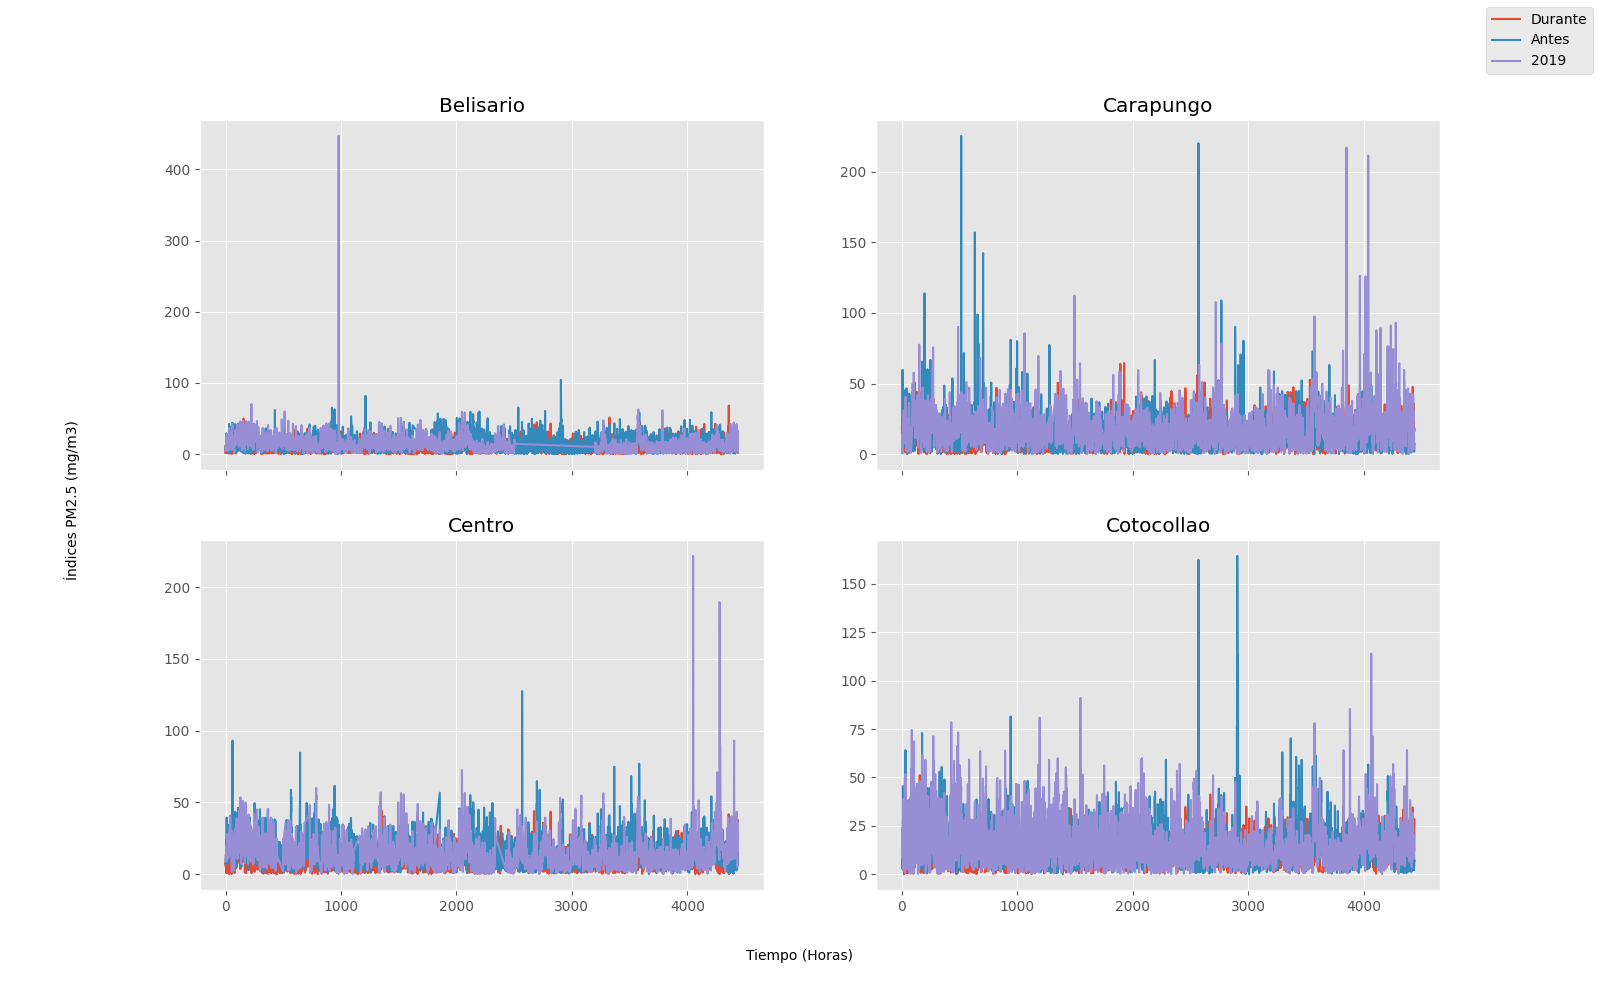
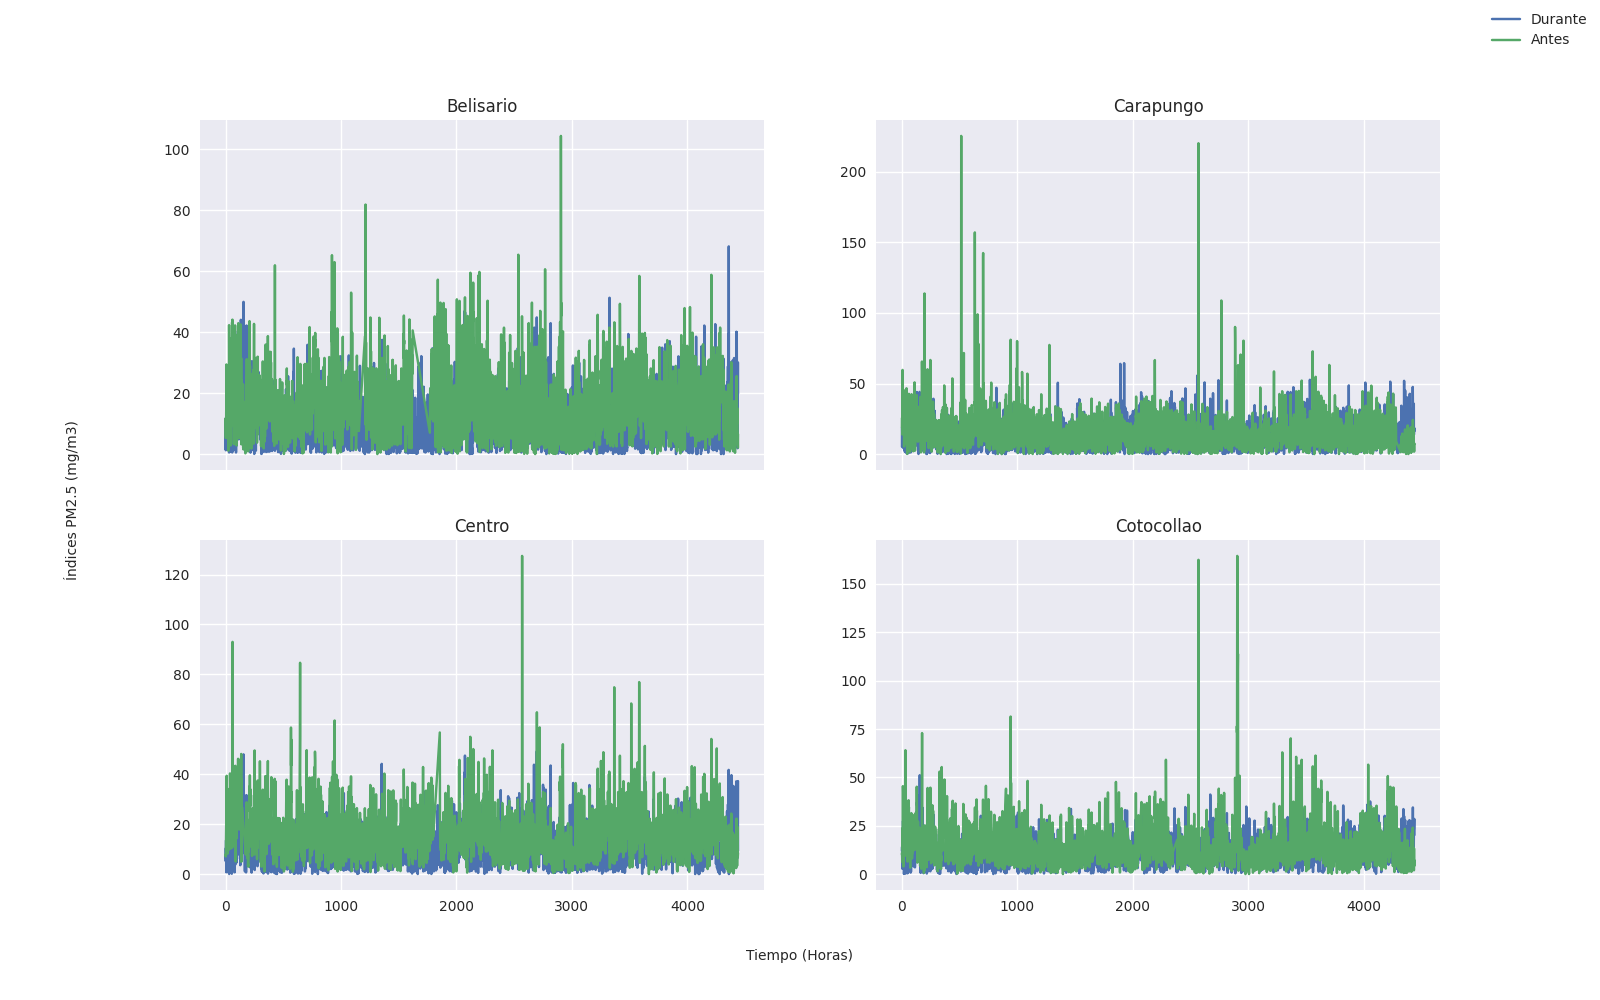
commit_pm2.5

diff --git a/PM2.5/pm25_analisis.py b/PM2.5/pm25_analisis.py
@@ -11,7 +11,7 @@ import scipy.stats as stats
 from sklearn.preprocessing import PowerTransformer
 
 
-plt.style.use('ggplot')
+plt.style.use('seaborn')
 
 belisario_pm = []
 carapungo_pm = []
@@ -42,7 +42,7 @@ tumbaco_pm_19 = []
 
 
 #Read File == Resultados 1 mes durante la pandemia 2020
-with open("/home/edward/DataScience_Projects/Air Pollution/Historical_data_analysis/PM2.5/PM2.5-N.csv", "r") as csv_file:
+with open("/home/edward/DataScience_Projects/Air Pollution/PM2.5/PM2.5-N.csv", "r") as csv_file:
     f = csv.reader(csv_file, delimiter=",")
     for line in islice(f, 136404, 140843):
         belisario_pm.append(float(line[1]))
@@ -55,7 +55,7 @@ with open("/home/edward/DataScience_Projects/Air Pollution/Historical_data_analy
         tumbaco_pm.append(float(line[8]))
 
 #Read File == Resultados 1 mes antes la pandemia 2020
-with open("/home/edward/DataScience_Projects/Air Pollution/Historical_data_analysis/PM2.5/PM2.5-N.csv", "r") as csv_file_antes:
+with open("/home/edward/DataScience_Projects/Air Pollution/PM2.5/PM2.5-N.csv", "r") as csv_file_antes:
     z = csv.reader(csv_file_antes, delimiter=",")
     for line in islice(z, 131964, 136403):
         belisario_pm_a.append(float(line[1]))
@@ -68,7 +68,7 @@ with open("/home/edward/DataScience_Projects/Air Pollution/Historical_data_analy
         tumbaco_pm_a.append(float(line[8]))
 
 #Read File == Resultados 1 mes 2019
-with open("/home/edward/DataScience_Projects/Air Pollution/Historical_data_analysis/PM2.5/PM2.5-N.csv", "r") as csv_file_2019:
+with open("/home/edward/DataScience_Projects/Air Pollution/PM2.5/PM2.5-N.csv", "r") as csv_file_2019:
     c = csv.reader(csv_file_2019, delimiter=",")
     for line in islice(c, 127620, 132059):
         belisario_pm_19.append(float(line[1]))
@@ -105,7 +105,7 @@ mask_r = (belisario_pm_19 > 0)
 
 ax1.plot(tiempo_b[mask], belisario_pm[mask])
 ax1.plot(tiempo_j[mask_j], belisario_pm_a[mask_j])
-ax1.plot(tiempo_r[mask_r], belisario_pm_19[mask_r])
+#ax1.plot(tiempo_r[mask_r], belisario_pm_19[mask_r])
 ax1.set_title("Belisario")
 
 # pt = PowerTransformer(method='box-cox')
@@ -139,7 +139,7 @@ wiltest_carapungo = stats.wilcoxon(carapungo_pm, carapungo_pm_a)
 
 ax2.plot(tiempo_c[mask_c], carapungo_pm[mask_c])
 ax2.plot(tiempo_k[mask_k], carapungo_pm_a[mask_k])
-ax2.plot(tiempo_s[mask_s], carapungo_pm_19[mask_s])
+#ax2.plot(tiempo_s[mask_s], carapungo_pm_19[mask_s])
 ax2.set_title("Carapungo")
 
 
@@ -163,7 +163,7 @@ wiltest_centro = stats.wilcoxon(centro_pm, centro_pm_a)
 
 ax3.plot(tiempo_d[mask_d], centro_pm[mask_d])
 ax3.plot(tiempo_l[mask_l], centro_pm_a[mask_l])
-ax3.plot(tiempo_t[mask_t], centro_pm_19[mask_t])
+#ax3.plot(tiempo_t[mask_t], centro_pm_19[mask_t])
 ax3.set_title("Centro")
 
 #Plot cotocollao_pm CO
@@ -186,7 +186,7 @@ wiltest_cotocollao = stats.wilcoxon(cotocollao_pm, cotocollao_pm_a)
 
 ax4.plot(tiempo_e[mask_e], cotocollao_pm[mask_e])
 ax4.plot(tiempo_m[mask_m], cotocollao_pm_a[mask_m])
-ax4.plot(tiempo_u[mask_u], cotocollao_pm_19[mask_u])
+#ax4.plot(tiempo_u[mask_u], cotocollao_pm_19[mask_u])
 ax4.set_title("Cotocollao")
 
 
@@ -196,8 +196,8 @@ ax4.set_title("Cotocollao")
 fig.text(0.5, 0.04, 'Tiempo (Horas)', ha='center')
 fig.text(0.04, 0.5, 'Índices PM2.5 (mg/m3)', va='center', rotation='vertical')
 
-fig.legend(["Durante", "Antes", "2019"])
-plt.savefig("/home/edward/DataScience_Projects/Air Pollution/Historical_data_analysis/PM2.5/Gráficos PM2.5/1.png")
+fig.legend(["Durante", "Antes"])
+plt.savefig("/home/edward/DataScience_Projects/Air Pollution/PM2.5/Gráficos PM2.5/1.png")
 plt.show()
 
 
@@ -223,7 +223,7 @@ wiltest_elcamal = stats.wilcoxon(elcamal_pm, elcamal_pm_a)
 
 ax1.plot(tiempo_f[mask_f], elcamal_pm[mask_f])
 ax1.plot(tiempo_n[mask_n], elcamal_pm_a[mask_n])
-ax1.plot(tiempo_u[mask_v], elcamal_pm_19[mask_v])
+#ax1.plot(tiempo_u[mask_v], elcamal_pm_19[mask_v])
 ax1.set_title("El camal")
 
 #Plot guamani_pm CO
@@ -246,7 +246,7 @@ wiltest_guamani = stats.wilcoxon(guamani_pm, guamani_pm_a)
 
 ax2.plot(tiempo_g[mask_g], guamani_pm[mask_g])
 ax2.plot(tiempo_o[mask_o], guamani_pm_a[mask_o])
-ax2.plot(tiempo_w[mask_w], guamani_pm_19[mask_w])
+#ax2.plot(tiempo_w[mask_w], guamani_pm_19[mask_w])
 ax2.set_title("Guamní")
 
 #Will take the same label axis
@@ -255,8 +255,8 @@ ax2.set_title("Guamní")
 fig2.text(0.5, 0.04, 'Tiempo (Horas)', ha='center')
 fig2.text(0.04, 0.5, 'Índices PM2.5 (mg/m3)', va='center', rotation='vertical')
 
-fig2.legend(["Durante", "Antes", "2019"])
-plt.savefig("/home/edward/DataScience_Projects/Air Pollution/Historical_data_analysis/PM2.5/Gráficos PM2.5/2.png")
+fig2.legend(["Durante", "Antes"])
+plt.savefig("/home/edward/DataScience_Projects/Air Pollution/PM2.5/Gráficos PM2.5/2.png")
 plt.show()
 
 fig3, ((ax3, ax4)) = plt.subplots(1,2, sharex=True, figsize=(16,10))
@@ -280,7 +280,7 @@ wiltest_chillos = stats.wilcoxon(chillos_pm, chillos_pm_a)
 
 ax3.plot(tiempo_h[mask_h], chillos_pm[mask_h])
 ax3.plot(tiempo_p[mask_p], chillos_pm_a[mask_p])
-ax3.plot(tiempo_x[mask_x], chillos_pm_19[mask_x])
+#ax3.plot(tiempo_x[mask_x], chillos_pm_19[mask_x])
 ax3.set_title("Chillos")
 
 #Plot tumbaco_pm CO
@@ -304,16 +304,16 @@ wiltest_tumbaco = stats.wilcoxon(tumbaco_pm, tumbaco_pm_a)
 
 ax4.plot(tiempo_i[mask_i], tumbaco_pm[mask_i])
 ax4.plot(tiempo_q[mask_q], tumbaco_pm_a[mask_q])
-ax4.plot(tiempo_y[mask_y], tumbaco_pm_19[mask_y])
+#ax4.plot(tiempo_y[mask_y], tumbaco_pm_19[mask_y])
 ax4.set_title("Tumbaco")
 
 fig3.text(0.5, 0.04, 'Tiempo (Horas)', ha='center')
 fig3.text(0.04, 0.5, 'Índices PM2.5 (mg/m3)', va='center', rotation='vertical')
 
 
-fig3.legend(["Durante", "Antes", "2019"])
+fig3.legend(["Durante", "Antes"])
 
-plt.savefig("/home/edward/DataScience_Projects/Air Pollution/Historical_data_analysis/PM2.5/Gráficos PM2.5/3.png")
+plt.savefig("/home/edward/DataScience_Projects/Air Pollution/PM2.5/Gráficos PM2.5/3.png")
 plt.show()
 
 
